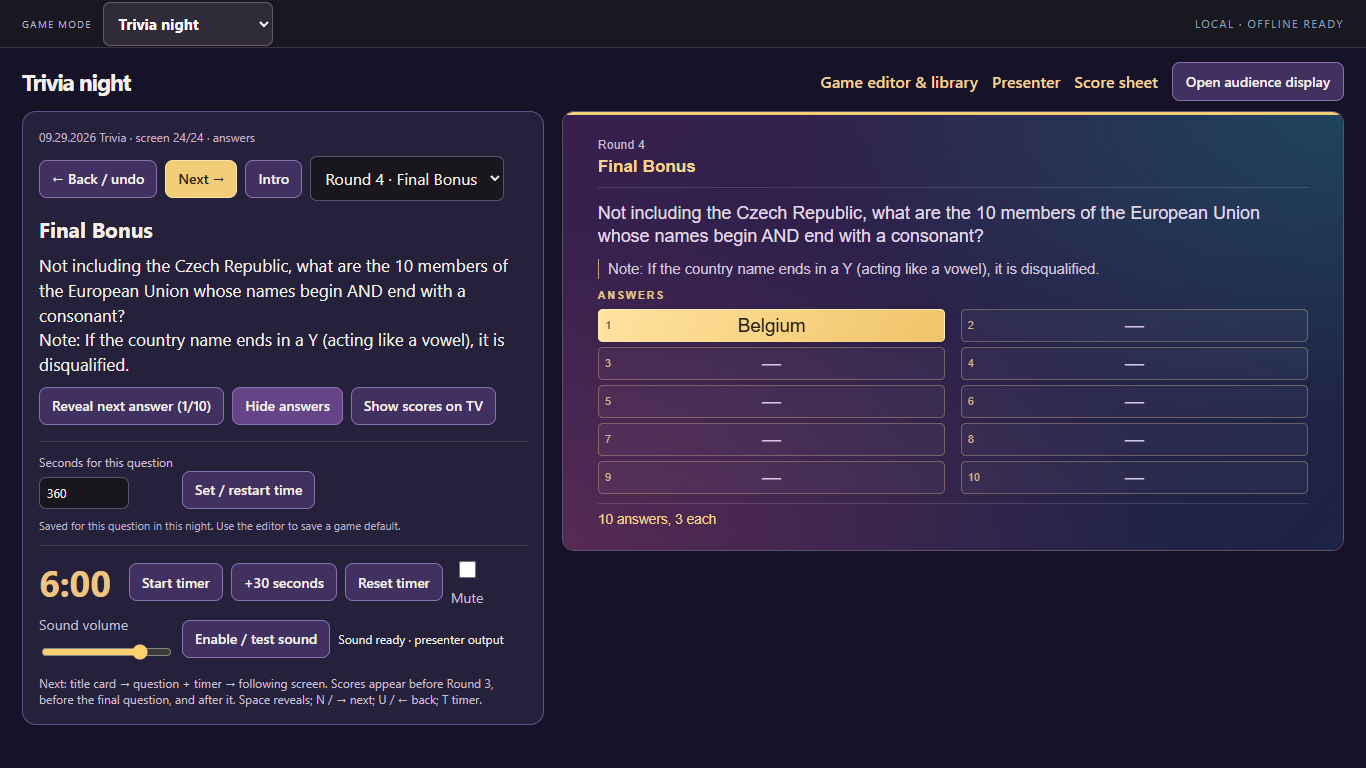
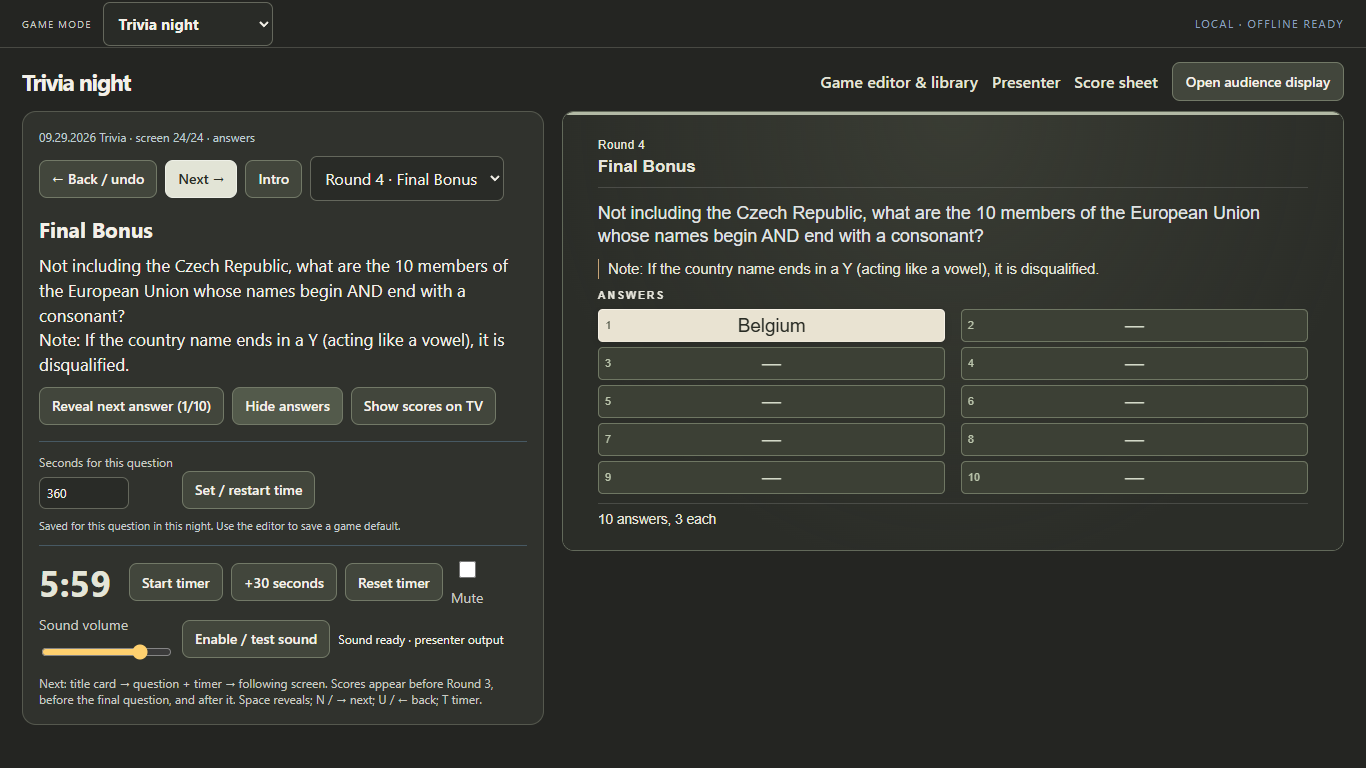
Soften trivia palette, remove intro tagline and speed answer flips

diff --git a/src/trivia/dark.css b/src/trivia/dark.css
@@ -1,95 +1,95 @@
-/* Warm charcoal, plum and amber distinguish trivia from the Feud board. */
-.app-nav.trivia-nav{background:#19171f;border-color:#393341;color:#f7f2e9}
-.mode-switch{display:flex;align-items:center;gap:12px;color:#bdb4ca;font-size:10px;letter-spacing:.12em;white-space:nowrap}
-.mode-switch select{width:170px;margin:0;background:#302b39;border:1px solid #655874;color:#fff;font-size:15px;font-weight:700;letter-spacing:0}
-.trivia-app{background:#17151c;color:#f4f0e9;padding:14px 22px}
-.trivia-app .panel{background:#24202b;border:1px solid #443a50;border-radius:14px}
-.trivia-app input,.trivia-app textarea,.trivia-app select{background:#19161e;color:#f6f1e9;border-color:#5e506d}
-.trivia-app button,.trivia-app .file-button{background:#342c3e;color:#f6f1e9;border-color:#62526e}
-.trivia-app button:hover{background:#4d3c59}.trivia-app .primary{background:#edc581;color:#241c15;border-color:#edc581}
-.trivia-app label,.trivia-app .subtle,.trivia-app .micro{color:#c8becf}.trivia-toolbar a{color:#e5cba3}.trivia-message{background:#392e44}
-.trivia-app .score-table th,.trivia-app .score-table td{background:#24202b;color:#f4f0e9;border-color:#493f53}
-.trivia-app .score-table .subtotal{background:#3c3046}.trivia-app .trivia-library-item{border-color:#493f53}
-.trivia-screen-list .selected{background:#51405d;border-color:#edc581}.trivia-toolbar h1{font-size:23px}
+/* Soft navy, cream and muted gold keep trivia readable in dark mode. */
+.app-nav.trivia-nav{background:#182129;border-color:#394750;color:#f7f2e9}
+.mode-switch{display:flex;align-items:center;gap:12px;color:#bcc6ca;font-size:10px;letter-spacing:.12em;white-space:nowrap}
+.mode-switch select{width:170px;margin:0;background:#2b3942;border:1px solid #5c6b74;color:#fff;font-size:15px;font-weight:700;letter-spacing:0}
+.trivia-app{background:#172128;color:#f4f0e9;padding:14px 22px}
+.trivia-app .panel{background:#24313a;border:1px solid #44535c;border-radius:14px}
+.trivia-app input,.trivia-app textarea,.trivia-app select{background:#19252d;color:#f6f1e9;border-color:#5d6d76}
+.trivia-app button,.trivia-app .file-button{background:#34464f;color:#f6f1e9;border-color:#627781}
+.trivia-app button:hover{background:#465f69}.trivia-app .primary{background:#edc581;color:#241c15;border-color:#edc581}
+.trivia-app label,.trivia-app .subtle,.trivia-app .micro{color:#c7cdd0}.trivia-toolbar a{color:#e5cba3}.trivia-message{background:#31434c}
+.trivia-app .score-table th,.trivia-app .score-table td{background:#24313a;color:#f4f0e9;border-color:#475963}
+.trivia-app .score-table .subtotal{background:#354954}.trivia-app .trivia-library-item{border-color:#475963}
+.trivia-screen-list .selected{background:#44616c;border-color:#edc581}.trivia-toolbar h1{font-size:23px}
 .trivia-host{grid-template-columns:minmax(0,1.15fr) minmax(0,1fr);gap:18px}.trivia-host>.panel{margin:10px 0}
-.trivia-controls{padding:16px}.trivia-controls>p:first-child{font-size:12px;color:#c3b1cc;margin:0 0 10px}
+.trivia-controls{padding:16px}.trivia-controls>p:first-child{font-size:12px;color:#bfcbcf;margin:0 0 10px}
 .trivia-host-prompt{font-size:17px;line-height:1.45;max-height:150px;margin:10px 0}
 .trivia-controls h2{font-size:21px;margin:14px 0 8px}.trivia-controls button{padding:8px 12px}
-.trivia-timer-controls{margin:12px 0;padding-top:12px;border-top:1px solid #493f53}.trivia-timer-controls>b{color:#edc581}
-.trivia-timer-controls input[type=range]{max-width:140px}.trivia-answer-key{border-color:#493f53}
+.trivia-timer-controls{margin:12px 0;padding-top:12px;border-top:1px solid #475963}.trivia-timer-controls>b{color:#edc581}
+.trivia-timer-controls input[type=range]{max-width:140px}.trivia-answer-key{border-color:#475963}
 .trivia-answer-key ol{columns:auto;display:grid;grid-template-columns:1fr 1fr;gap:6px;list-style:none;padding:0;max-height:220px}
 .trivia-answer-key li button{display:flex;align-items:center;gap:10px;text-align:left;width:100%;height:100%;font-size:13px}
 .trivia-answer-key button[aria-pressed=true]{background:#4e4938;border-color:#edc581}.trivia-answer-key button>span:first-child{color:#edc581}
 .trivia-answer-key pre{margin:5px 0}.trivia-answer-key h3{margin:5px 0}.trivia-controls>.subtle{font-size:12px;line-height:1.4}
-.trivia-host-side{min-width:0}.trivia-host-side .trivia-preview{position:static}.trivia-host-side .trivia-answer-key{padding:12px 16px;background:#24202b;border:1px solid #443a50;border-radius:12px}.trivia-host-side .trivia-answer-key ol{max-height:175px}.trivia-host-side .trivia-answer-key button{padding:7px 10px;min-height:32px}.trivia-host-side .trivia-answer-key pre{max-height:40px}
+.trivia-host-side{min-width:0}.trivia-host-side .trivia-preview{position:static}.trivia-host-side .trivia-answer-key{padding:12px 16px;background:#24313a;border:1px solid #44535c;border-radius:12px}.trivia-host-side .trivia-answer-key ol{max-height:175px}.trivia-host-side .trivia-answer-key button{padding:7px 10px;min-height:32px}.trivia-host-side .trivia-answer-key pre{max-height:40px}
 .trivia-host-side .trivia-preview{max-width:540px;margin-left:auto;margin-right:auto}.trivia-host-side .trivia-answer-key ol{max-height:220px}
 .trivia-host-side .trivia-preview{max-width:none}
 .trivia-host{grid-template-columns:minmax(0,.9fr) minmax(0,1.35fr)}
-.trivia-question-timing{display:flex;align-items:end;gap:9px;flex-wrap:wrap;margin-top:16px;padding-top:12px;border-top:1px solid #493f53}
-.trivia-question-timing label{font-size:12px}.trivia-question-timing input{width:90px;padding:7px}.trivia-question-timing small{width:100%;color:#bdb1c8;font-size:11px}
+.trivia-question-timing{display:flex;align-items:end;gap:9px;flex-wrap:wrap;margin-top:16px;padding-top:12px;border-top:1px solid #475963}
+.trivia-question-timing label{font-size:12px}.trivia-question-timing input{width:90px;padding:7px}.trivia-question-timing small{width:100%;color:#c5cdd0;font-size:11px}
 .trivia-brand{position:static;width:30cqw;height:10cqw;background:transparent;border-radius:0;overflow:visible;flex-shrink:0;margin-bottom:1cqw}
 .trivia-brand img{position:static;width:100%;height:100%;object-fit:contain}
 .trivia-slide .trivia-centered:has(.trivia-brand){gap:1cqw}
 .trivia-slide .trivia-centered:has(.trivia-brand) h1{font-size:9cqw;margin:0}
 .trivia-slide .trivia-centered:has(.trivia-brand) h2{font-size:2.5cqw}
-.trivia-slide .trivia-centered>.trivia-host-credit{font-size:1.35cqw;letter-spacing:.04em;color:#c2b8cb;margin-top:1.4cqw}
+.trivia-slide .trivia-centered>.trivia-host-credit{font-size:1.35cqw;letter-spacing:.04em;color:#c3cccf;margin-top:1.4cqw}
 .trivia-slide .answer-shown{background:#bdb1d00b;color:#f4edf9;border-color:#c9b7dd48}
 .trivia-slide .paired-answer{color:#e7dcee}
 .trivia-slide .trivia-answer-list[data-count="1"] li{background:transparent;border-bottom:0;padding:1cqw 0}
 @media(max-width:1000px){.trivia-host{grid-template-columns:1fr}}
-.trivia-preview{position:sticky;top:12px;margin-top:10px;border:1px solid #5e506d;border-radius:12px;overflow:hidden}
-.trivia-display{background:#100e14}.trivia-slide{background:#211b29;color:#faf5ec}
+.trivia-preview{position:sticky;top:12px;margin-top:10px;border:1px solid #5d6d76;border-radius:12px;overflow:hidden}
+.trivia-display{background:#100e14}.trivia-slide{background:#263842;color:#faf5ec}
 .trivia-slide .trivia-stage{background:radial-gradient(ellipse at 95% 0,#47304b 0,transparent 55%),linear-gradient(135deg,#211c29,#17151e);color:#faf5ec;padding:3cqw 4.5cqw;gap:1.8cqw;border-top:.45cqw solid #dab77f}
-.trivia-slide .trivia-stage header{color:#c9bbd2;font-size:1.6cqw;border-color:#ffffff24;padding-bottom:1.3cqw;flex-shrink:0}
+.trivia-slide .trivia-stage header{color:#c5cfd2;font-size:1.6cqw;border-color:#ffffff24;padding-bottom:1.3cqw;flex-shrink:0}
 .trivia-stage header>span{display:flex;flex-direction:column;gap:.4cqw}.trivia-stage header strong{color:#edc581;font-size:2.2cqw}
 .trivia-slide .trivia-stage header>b{font-size:5cqw;color:#faf5ec}.trivia-slide .trivia-stage header .time-up{color:#f5b097}
 .trivia-question-body{display:flex;flex:1;min-height:0;flex-direction:column;justify-content:center;gap:2.2cqw}
 .trivia-slide .trivia-question-text{font-size:3.7cqw;line-height:1.27;font-weight:600;white-space:pre-line;margin:0;max-width:88cqw;overflow-wrap:anywhere}
 .trivia-question-body[data-length=medium] .trivia-question-text{font-size:3.35cqw}.trivia-question-body[data-length=long] .trivia-question-text{font-size:2.9cqw}
-.trivia-slide .trivia-question-note{font-size:1.9cqw;line-height:1.4;color:#d4c7dd;max-width:82cqw;border-left:.22cqw solid #c6a376;padding-left:1.2cqw}
+.trivia-slide .trivia-question-note{font-size:1.9cqw;line-height:1.4;color:#d6dddd;max-width:82cqw;border-left:.22cqw solid #c6a376;padding-left:1.2cqw}
 .trivia-prompt-items{display:grid;grid-template-columns:1fr 1fr;gap:1.3cqw 3cqw;list-style:none;padding:0;margin:0}
 .trivia-prompt-items li{display:flex;align-items:baseline;gap:1.3cqw;font-size:2.8cqw;line-height:1.25;border-top:1px solid #ffffff25;padding-top:1.1cqw}
 .item-number{font-size:1.4cqw;color:#d8b580;flex-shrink:0;font-variant-numeric:tabular-nums}
 .trivia-slide .trivia-stage footer{position:static;max-width:100%;font-size:1.75cqw;color:#d8b580;border-top:1px solid #ffffff24;padding-top:1cqw;flex-shrink:0}
 .trivia-slide .trivia-centered h1{color:#faf5ec;font-size:8cqw}.trivia-slide .trivia-centered>p{color:#edc581;font-size:1.8cqw;letter-spacing:.15em}
-.trivia-centered h2{font-weight:400;color:#d7c9de}.trivia-round-categories{font-size:3cqw;line-height:1.65;color:#d7c9de}
+.trivia-centered h2{font-weight:400;color:#d8dddd}.trivia-round-categories{font-size:3cqw;line-height:1.65;color:#d8dddd}
 .trivia-brand{width:18cqw;height:5.2cqw;bottom:2cqw;right:3cqw;border-radius:.5cqw}
-.trivia-slide .trivia-answers .trivia-question-text{font-size:2.3cqw;line-height:1.3;color:#e2d9e7;font-weight:400}
+.trivia-slide .trivia-answers .trivia-question-text{font-size:2.3cqw;line-height:1.3;color:#e0e4e4;font-weight:400}
 .trivia-answers .trivia-question-body{justify-content:flex-start;gap:1.3cqw}
 .trivia-answer-board{flex:1;display:flex;flex-direction:column;gap:1cqw;min-height:0}
 .trivia-slide .answer-label{font-size:1.1cqw;letter-spacing:.12em;color:#edc581}
 .trivia-slide .trivia-answer-list{list-style:none;padding:0;margin:0;display:grid;grid-template-columns:1fr 1fr;font-size:2.7cqw;line-height:1.15;gap:1cqw 2cqw;align-content:center}
 .trivia-slide .trivia-answer-list li{display:flex;align-items:center;gap:1.2cqw;border-bottom:1px solid #ffffff26;padding:.6cqw .8cqw;min-height:3.2cqw}
 .trivia-slide .trivia-answer-list[data-count="1"]{grid-template-columns:1fr;font-size:4.5cqw;text-align:left}
-.trivia-slide .trivia-answer-list[data-count="1"] li{padding:2cqw}.answer-shown{background:#edc58112;color:#ffdfa5;animation:trivia-reveal .22s ease-out}.answer-hidden{color:#a899b1}
+.trivia-slide .trivia-answer-list[data-count="1"] li{padding:2cqw}.answer-shown{background:#edc58112;color:#eddbb5;animation:trivia-reveal .22s ease-out}.answer-hidden{color:#a899b1}
 .trivia-slide .trivia-answer-list[data-count="10"],.trivia-slide .trivia-answer-list[data-count="9"],.trivia-slide .trivia-answer-list[data-count="8"],.trivia-slide .trivia-answer-list[data-count="7"],.trivia-slide .trivia-answer-list[data-count="6"]{font-size:2.4cqw;gap:.65cqw 2cqw}
-.paired-answer{font-size:2.3cqw;color:#ffdfa5;margin-top:.5cqw;min-height:2.8cqw}
+.paired-answer{font-size:2.3cqw;color:#eddbb5;margin-top:.5cqw;min-height:2.8cqw}
 .trivia-slide .has-prompts .trivia-question-text{font-size:2.9cqw;line-height:1.25}.has-prompts .trivia-question-body{justify-content:flex-start;gap:1.6cqw}.has-prompts .trivia-prompt-items li{font-size:2.35cqw;line-height:1.22;padding-top:.8cqw}.has-prompts .trivia-prompt-items{gap:1cqw 3cqw}.trivia-answers.has-prompts .trivia-question-text{font-size:2.2cqw}.trivia-answers .trivia-prompt-items li{font-size:1.9cqw}.trivia-answers .paired-answer{font-size:2.15cqw}
-.trivia-slide .trivia-ranks>div{background:#ffffff07;color:#faf5ec;border-color:#ffffff15;font-size:2.5cqw}.trivia-slide .trivia-ranks .shown{background:#8b6c3d35;color:#ffdfa5}
+.trivia-slide .trivia-ranks>div{background:#ffffff07;color:#faf5ec;border-color:#ffffff15;font-size:2.5cqw}.trivia-slide .trivia-ranks .shown{background:#8b6c3d35;color:#eddbb5}
 .trivia-slide .trivia-stage:has(.trivia-ranks){padding-bottom:3cqw}
 @keyframes trivia-reveal{from{opacity:.3;transform:translateY(3px)}to{opacity:1;transform:none}}
 @media(prefers-reduced-motion:reduce){.answer-shown{animation:none}}
-.trivia-score-layout{display:grid;grid-template-columns:minmax(0,1fr) 310px;gap:20px;align-items:start}.trivia-grading-card{background:#19161f;border:1px solid #5c4a69;border-radius:12px;padding:18px;position:sticky;top:12px}.trivia-grading-card>p{white-space:pre-line;line-height:1.5}.trivia-grading-card li{margin:9px 0;color:#ffdfa5}.trivia-screen-list>button[draggable]{cursor:grab}.trivia-screen-list>button[draggable]:active{cursor:grabbing}
+.trivia-score-layout{display:grid;grid-template-columns:minmax(0,1fr) 310px;gap:20px;align-items:start}.trivia-grading-card{background:#1e2b34;border:1px solid #596c77;border-radius:12px;padding:18px;position:sticky;top:12px}.trivia-grading-card>p{white-space:pre-line;line-height:1.5}.trivia-grading-card li{margin:9px 0;color:#eddbb5}.trivia-screen-list>button[draggable]{cursor:grab}.trivia-screen-list>button[draggable]:active{cursor:grabbing}
 @media(max-width:900px){.trivia-score-layout{grid-template-columns:1fr}.trivia-grading-card{position:static}}
 @media(max-width:1000px){.trivia-host{grid-template-columns:1fr}.trivia-preview{position:static}.trivia-app{padding:12px}}
 .trivia-slide .trivia-brand{position:static;width:30cqw;height:10cqw;background:transparent;overflow:visible;border-radius:0}
-.trivia-slide .trivia-ranks .shown{background:#ffffff08;color:#f5f1f7;border-left:.35cqw solid #71657d}
+.trivia-slide .trivia-ranks .shown{background:#ffffff08;color:#f5f1f7;border-left:.35cqw solid #788c96}
 .trivia-slide .trivia-ranks .medal-1{border-left-color:#b9a173;background:#b9a1730d}
 .trivia-slide .trivia-ranks .medal-2{border-left-color:#adb7c4;background:#adb7c40c}
 .trivia-slide .trivia-ranks .medal-3{border-left-color:#b38b73;background:#b38b730c}
 .trivia-slide .trivia-ranks .medal-1>b:first-child{color:#d1bd97}.trivia-slide .trivia-ranks .medal-2>b:first-child{color:#c4cedb}.trivia-slide .trivia-ranks .medal-3>b:first-child{color:#d0aa91}
-.trivia-full-scorebook{padding:16px!important}.trivia-full-scorebook>p{font-size:13px;color:#c7bdd0;margin:8px 0 14px}
+.trivia-full-scorebook{padding:16px!important}.trivia-full-scorebook>p{font-size:13px;color:#c9ced0;margin:8px 0 14px}
 .trivia-all-scores{table-layout:fixed;width:100%;font-variant-numeric:tabular-nums}
 .trivia-app .trivia-all-scores th,.trivia-app .trivia-all-scores td{padding:6px 2px;font-size:12px;letter-spacing:0;border-right:1px solid #ffffff0c}
 .trivia-app .trivia-all-scores tr th:first-child{min-width:0;width:auto}
 .trivia-app .trivia-all-scores thead tr:nth-child(2) th:first-child{position:static;text-align:center}
 .trivia-app .trivia-all-scores input{min-width:0!important;width:100%!important;padding:7px 2px;font-size:13px;text-align:center}
 .trivia-app .trivia-all-scores th input{text-align:left;font-size:12px}
-.trivia-app .trivia-all-scores .subtotal{min-width:0;background:#39313f;color:#f3eafa;border-left:1px solid #776383;border-right:1px solid #574660;font-size:12px}
-.trivia-app .trivia-all-scores .subtotal-total{font-weight:800;background:#50415d}
-.trivia-app .trivia-all-scores .round-headings th{background:#302637;border-bottom:1px solid #8e739e;text-align:center;font-size:13px;padding:10px 2px}
+.trivia-app .trivia-all-scores .subtotal{min-width:0;background:#344750;color:#f3f0e8;border-left:1px solid #75858b;border-right:1px solid #526771;font-size:12px}
+.trivia-app .trivia-all-scores .subtotal-total{font-weight:800;background:#47606b}
+.trivia-app .trivia-all-scores .round-headings th{background:#2a3b45;border-bottom:1px solid #85999f;text-align:center;font-size:13px;padding:10px 2px}
 .trivia-app .trivia-all-scores th button{min-height:30px;width:100%;padding:3px 0;border:0;border-radius:4px;background:transparent;font-size:11px;white-space:normal}
-.trivia-app .trivia-all-scores th .active-question{background:#574063;color:#fff}
+.trivia-app .trivia-all-scores th .active-question{background:#4b6874;color:#fff}
 .trivia-app .trivia-all-scores thead th{white-space:normal}
 .trivia-score-answer{display:grid;grid-template-columns:260px 1fr;gap:20px;align-items:start}
 .trivia-score-answer .trivia-grading-card{position:static;padding:16px}
@@ -98,7 +98,7 @@
 @media(max-width:800px){.trivia-score-answer{grid-template-columns:1fr}}
 
 .trivia-slide .is-concealed{visibility:hidden}
-.trivia-slide .answer-shown,.trivia-slide .trivia-answer-list[data-count="1"] .answer-shown,.trivia-slide .paired-answer.is-visible{background:#f0ce83;color:#251e17;border-radius:.6cqw;border:1px solid #ffe6aa}
+.trivia-slide .answer-shown,.trivia-slide .trivia-answer-list[data-count="1"] .answer-shown,.trivia-slide .paired-answer.is-visible{background:#e5cf9e;color:#251e17;border-radius:.6cqw;border:1px solid #ffe6aa}
 .trivia-slide .answer-shown .item-number{color:#66502b}
 .trivia-slide .trivia-answer-list[data-count="1"]{font-size:5.2cqw;align-content:start}
 .trivia-slide .trivia-answer-list[data-count="1"] li{padding:2cqw;min-height:8cqw}
@@ -106,35 +106,35 @@
 .trivia-slide .paired-answer .answer-label{display:block;font-size:1cqw;color:#66502b;margin-bottom:.25cqw}
 .trivia-slide .answer-label{font-size:1.45cqw;font-weight:700;text-transform:uppercase}
 .trivia-stage header>b{position:relative}
-.trivia-extension{position:absolute;right:0;top:100%;font-size:1.7cqw;line-height:1.2;color:#f0ce83;white-space:nowrap}
-.trivia-slide .trivia-ranks .medal-1{background:#79602e;border-left:.8cqw solid #f0ce83;color:#fff7e6}
+.trivia-extension{position:absolute;right:0;top:100%;font-size:1.7cqw;line-height:1.2;color:#e5cf9e;white-space:nowrap}
+.trivia-slide .trivia-ranks .medal-1{background:#79602e;border-left:.8cqw solid #e5cf9e;color:#fff7e6}
 .trivia-slide .trivia-ranks .medal-2{background:#4d5c70;border-left:.8cqw solid #d8e3f1;color:#fff}
 .trivia-slide .trivia-ranks .medal-3{background:#794e39;border-left:.8cqw solid #e9ae84;color:#fff4eb}
 .trivia-slide .trivia-ranks .shown>b:first-child{color:inherit}
 
-.trivia-time-notice{position:absolute;z-index:4;top:12cqw;left:50%;transform:translateX(-50%);padding:1.2cqw 2.5cqw;background:#f0ce83;color:#251e17;border:2px solid #ffe6aa;border-radius:1cqw;font-size:3cqw;font-weight:700;box-shadow:0 1cqw 3cqw #0006;white-space:nowrap}
-.trivia-countdown{position:absolute;z-index:4;right:3cqw;bottom:5cqw;width:15cqw;min-height:15cqw;display:flex;flex-direction:column;align-items:center;justify-content:center;border:.25cqw solid #f0ce83;border-radius:1.3cqw;background:#201928f5;color:#ffdfa5;box-shadow:0 1cqw 4cqw #0008;pointer-events:none}
+.trivia-time-notice{position:absolute;z-index:4;top:12cqw;left:50%;transform:translateX(-50%);padding:1.2cqw 2.5cqw;background:#e5cf9e;color:#251e17;border:2px solid #ffe6aa;border-radius:1cqw;font-size:3cqw;font-weight:700;box-shadow:0 1cqw 3cqw #0006;white-space:nowrap}
+.trivia-countdown{position:absolute;z-index:4;right:3cqw;bottom:5cqw;width:15cqw;min-height:15cqw;display:flex;flex-direction:column;align-items:center;justify-content:center;border:.25cqw solid #e5cf9e;border-radius:1.3cqw;background:#1e2e38f5;color:#eddbb5;box-shadow:0 1cqw 4cqw #0008;pointer-events:none}
 .trivia-countdown b{font-size:10cqw;line-height:1.05;font-variant-numeric:tabular-nums}.trivia-countdown span{font-size:1.2cqw;letter-spacing:.08em}
 
 .trivia-question-text{transform-origin:left top}
 .trivia-answer-board,.trivia-answers .paired-answer{animation:trivia-board-in .45s cubic-bezier(.2,.7,.2,1) both}
-.trivia-slide .trivia-answer-list .answer-hidden{background:#ffffff09;border:1px solid #c3a67970;border-radius:.6cqw;min-height:3.2cqw;color:#d5c4df}
+.trivia-slide .trivia-answer-list .answer-hidden{background:#ffffff09;border:1px solid #c3a67970;border-radius:.6cqw;min-height:3.2cqw;color:#d4dadb}
 .trivia-slide .trivia-answer-list[data-count="1"] .answer-hidden{min-height:8cqw}
 .trivia-slide .paired-answer.is-concealed{visibility:visible;background:#ffffff09;border:1px solid #c3a67970;border-radius:.6cqw}
 @keyframes trivia-board-in{from{opacity:0;transform:translateY(1.5cqw)}to{opacity:1;transform:none}}
 @media(prefers-reduced-motion:reduce){.trivia-answer-board,.trivia-answers .paired-answer{animation:none}}
 
 /* A brighter evening palette, with calm dark surfaces behind large type. */
-.trivia-display,.trivia-app{background:#161329}
-.trivia-app .panel{background:#25213b;border-color:#625184}
-.trivia-app button,.trivia-app .file-button{background:#403161;border-color:#8b70ae}
-.trivia-app button:hover{background:#654587}.trivia-app .primary{background:#f2cd78;color:#2b2015;border-color:#ffe5a7}
-.trivia-app .trivia-toolbar a{color:#f3d396}
-.trivia-slide .trivia-stage{background:radial-gradient(ellipse at 100% 0,#176e7770 0,transparent 50%),radial-gradient(ellipse at 0 100%,#94386166 0,transparent 55%),linear-gradient(135deg,#38204e,#1b2346);border-top:.45cqw solid #f2cd78}
-.trivia-slide .trivia-stage header strong,.trivia-slide .trivia-stage footer{color:#f6d48b}
-.trivia-slide .trivia-centered h1{text-shadow:0 .2cqw 2cqw #bc6bea40}
-.trivia-slide .trivia-prompt-items li{border-top-color:#75d4d066}
-.trivia-slide .answer-shown,.trivia-slide .trivia-answer-list[data-count="1"] .answer-shown,.trivia-slide .paired-answer.is-visible{background:linear-gradient(120deg,#ffe3a0,#f0c468);border-color:#ffecbd;box-shadow:0 .3cqw 1.2cqw #100a2340}
+.trivia-display,.trivia-app{background:#162229}
+.trivia-app .panel{background:#25343d;border-color:#566b76}
+.trivia-app button,.trivia-app .file-button{background:#344e5b;border-color:#708b96}
+.trivia-app button:hover{background:#4c6875}.trivia-app .primary{background:#dcc18c;color:#2b2015;border-color:#ffe5a7}
+.trivia-app .trivia-toolbar a{color:#e9d6ad}
+.trivia-slide .trivia-stage{background:radial-gradient(ellipse at 100% 0,#819c9b24 0,transparent 50%),radial-gradient(ellipse at 0 100%,#bfa77712 0,transparent 55%),linear-gradient(135deg,#273c48,#1d2d37);border-top:.45cqw solid #dcc18c}
+.trivia-slide .trivia-stage header strong,.trivia-slide .trivia-stage footer{color:#e9d3a8}
+.trivia-slide .trivia-centered h1{text-shadow:0 .2cqw 2cqw #d1bd9220}
+.trivia-slide .trivia-prompt-items li{border-top-color:#9bb5b144}
+.trivia-slide .answer-shown,.trivia-slide .trivia-answer-list[data-count="1"] .answer-shown,.trivia-slide .paired-answer.is-visible{background:linear-gradient(120deg,#f2dfb6,#e5cb94);border-color:#ffecbd;box-shadow:0 .3cqw 1.2cqw #100a2340}
 .trivia-slide .trivia-ranks .shown{background:#24565f;border-left-color:#77dad3}
 .trivia-slide .trivia-ranks .medal-1{background:linear-gradient(110deg,#9b702e,#654322);border-left-color:#ffdc81}
 .trivia-slide .trivia-ranks .medal-2{background:linear-gradient(110deg,#637b94,#384960);border-left-color:#e0edff}
@@ -142,21 +142,21 @@
 .trivia-slide .trivia-stage.trivia-answers header{min-height:5cqw}
 
 .trivia-answer-list{perspective:120cqw}
-.trivia-slide .answer-shown,.trivia-slide .paired-answer.is-visible{animation:trivia-answer-flip .5s ease-in-out both;transform-origin:center;backface-visibility:hidden}
-@keyframes trivia-answer-flip{0%{transform:rotateX(0deg);color:transparent;background:#382e4b}49%{transform:rotateX(90deg);color:transparent;background:#382e4b}50%{transform:rotateX(-90deg);color:#251e17}100%{transform:rotateX(0deg)}}
-.trivia-slide .answer-shown>span,.trivia-slide .paired-answer.is-visible>.answer-label{animation:trivia-answer-ink .5s step-end both}
+.trivia-slide .answer-shown,.trivia-slide .paired-answer.is-visible{animation:trivia-answer-flip .24s ease-in-out both;transform-origin:center;backface-visibility:hidden}
+@keyframes trivia-answer-flip{0%{transform:rotateX(0deg);color:transparent;background:#34454f}49%{transform:rotateX(90deg);color:transparent;background:#34454f}50%{transform:rotateX(-90deg);color:#251e17}100%{transform:rotateX(0deg)}}
+.trivia-slide .answer-shown>span,.trivia-slide .paired-answer.is-visible>.answer-label{animation:trivia-answer-ink .24s step-end both}
 @keyframes trivia-answer-ink{0%{opacity:0}50%,100%{opacity:1}}
 @media(prefers-reduced-motion:reduce){.trivia-slide .answer-shown,.trivia-slide .paired-answer.is-visible,.trivia-slide .answer-shown>span,.trivia-slide .paired-answer.is-visible>.answer-label{animation:none}}
 
-.trivia-slide .trivia-intro{position:relative;justify-content:center;align-items:flex-start;padding:6cqw 7cqw;gap:1.5cqw;background:radial-gradient(ellipse at 92% 58%,#18857a88,transparent 48%),radial-gradient(ellipse at 0 100%,#b83c7470,transparent 55%),linear-gradient(120deg,#352054,#182344)}
+.trivia-slide .trivia-intro{position:relative;justify-content:center;align-items:flex-start;padding:6cqw 7cqw;gap:1.5cqw;background:radial-gradient(ellipse at 92% 58%,#8ea6a333,transparent 48%),radial-gradient(ellipse at 0 100%,#c1a67418,transparent 55%),linear-gradient(120deg,#2b414d,#1b2c35)}
 .trivia-slide .trivia-intro .trivia-brand{position:absolute;top:4cqw;right:5cqw;width:25cqw;height:8cqw;margin:0}
 .trivia-intro .intro-eyebrow{font-size:1.8cqw;letter-spacing:.1em;color:#8ce3d6;position:relative;z-index:1}
 .trivia-slide .trivia-intro h1{font-size:11cqw;line-height:.92;margin:1.5cqw 0 2.5cqw;letter-spacing:-.035em;position:relative;z-index:1}
-.trivia-intro h1 span{display:block}.trivia-intro h1 span:first-child{color:#fff5e7}.trivia-intro h1 span:last-child{color:#ffd479;font-style:italic;padding-left:6cqw}
-.trivia-intro .intro-details{width:100%;display:flex;align-items:end;justify-content:space-between;border-top:.15cqw solid #f2cd7866;padding-top:2cqw;position:relative;z-index:1;gap:3cqw}
-.trivia-slide .trivia-intro h2{font-size:2cqw;color:#f0dbbd;font-weight:400}.trivia-intro .trivia-host-credit{font-size:1.4cqw;color:#d6cbe5}.trivia-intro .trivia-host-credit strong{display:block;font-size:1.8cqw;color:#a6e9de;margin-top:.4cqw}
-.intro-orbit{position:absolute;right:8cqw;top:17cqw;width:22cqw;height:22cqw;border:1.2cqw solid #77d6cc77;border-radius:50%;box-shadow:0 0 0 3cqw #77d6cc10,0 0 0 6cqw #77d6cc08;transform:rotate(-15deg)}
-.intro-orbit:before{content:'?';position:absolute;inset:0;display:grid;place-items:center;font-size:17cqw;font-weight:700;color:#f2cd78}
+.trivia-intro h1 span{display:block}.trivia-intro h1 span:first-child{color:#fff5e7}.trivia-intro h1 span:last-child{color:#e9cb8e;font-style:italic;padding-left:6cqw}
+.trivia-intro .intro-details{width:100%;display:flex;align-items:end;justify-content:space-between;border-top:.15cqw solid #dcc18c66;padding-top:2cqw;position:relative;z-index:1;gap:3cqw}
+.trivia-slide .trivia-intro h2{font-size:2cqw;color:#e8dfca;font-weight:400}.trivia-intro .trivia-host-credit{font-size:1.4cqw;color:#d5dadd}.trivia-intro .trivia-host-credit strong{display:block;font-size:1.8cqw;color:#c4d9d9;margin-top:.4cqw}
+.intro-orbit{position:absolute;right:8cqw;top:17cqw;width:22cqw;height:22cqw;border:1.2cqw solid #91aaa877;border-radius:50%;box-shadow:0 0 0 3cqw #91aaa810,0 0 0 6cqw #91aaa808;transform:rotate(-15deg)}
+.intro-orbit:before{content:'?';position:absolute;inset:0;display:grid;place-items:center;font-size:17cqw;font-weight:700;color:#dcc18c}
 
 .trivia-slide .trivia-intro{align-items:center;text-align:center;justify-content:flex-start;padding:3.5cqw 6cqw;gap:1.4cqw}
 .trivia-slide .trivia-intro .trivia-brand{position:relative;top:auto;right:auto;width:44cqw;height:14cqw;margin:0 0 1cqw}
@@ -171,3 +171,31 @@
 .trivia-slide .trivia-answer-list li>span:last-child{padding:0 1.2cqw}
 .trivia-slide .trivia-answer-list[data-count="1"]{text-align:center}
 .trivia-slide .paired-answer{text-align:center}
+
+.trivia-slide .trivia-intro .trivia-brand{margin-bottom:3cqw}.trivia-slide .trivia-brand img{filter:grayscale(1)}
+
+/* Warm neutral theme: charcoal, ivory and understated accents. */
+.app-nav.trivia-nav,.trivia-display,.trivia-app{background:#242522;color:#f3f0e8;border-color:#484943}
+.trivia-nav .mode-switch,.trivia-app label,.trivia-app .subtle,.trivia-app .micro{color:#c9cac2}
+.trivia-nav .mode-switch select,.trivia-app input,.trivia-app textarea,.trivia-app select{background:#292b27;color:#f3f0e8;border-color:#64675c}
+.trivia-app .panel,.trivia-app .trivia-grading-card{background:#30322d;border-color:#55584e}
+.trivia-app button,.trivia-app .file-button{background:#42463c;border-color:#727967;color:#f4f1e9}
+.trivia-app button:hover{background:#535a4b}.trivia-app .primary{background:#e2e4d6;border-color:#eef0e7;color:#292d25}
+.trivia-app .trivia-toolbar a,.trivia-app .trivia-timer-controls>b,.trivia-app .trivia-grading-card li{color:#e4e5d8}
+.trivia-app .score-table th,.trivia-app .score-table td{background:#30332d;border-color:#55594e;color:#f1eee6}
+.trivia-app .trivia-all-scores .subtotal,.trivia-app .trivia-all-scores .round-headings th{background:#43483c;color:#f4f1e9;border-color:#737b64}
+.trivia-app .trivia-all-scores .subtotal-total,.trivia-app .trivia-all-scores th .active-question,.trivia-app .trivia-screen-list .selected{background:#58634c;color:#fff;border-color:#b0baa2}
+.trivia-app .trivia-preview{border-color:#62695a}.trivia-app .trivia-message{background:#414737}
+.trivia-slide,.trivia-slide .trivia-stage,.trivia-slide .trivia-intro{background:radial-gradient(ellipse at 50% 0,#55594a55,transparent 75%),#2b2d28;color:#f4f0e6;border-top-color:#b2b9a5}
+.trivia-slide .trivia-stage header,.trivia-slide .trivia-stage header strong,.trivia-slide .trivia-stage footer,.trivia-slide .answer-label,.trivia-slide .trivia-question-note,.trivia-slide .trivia-question-text,.trivia-slide .trivia-round-categories{color:#e6e5db}
+.trivia-slide .trivia-stage header>b,.trivia-slide .trivia-centered h1{color:#f6f3eb;text-shadow:none}
+.trivia-slide .trivia-intro h1 span:first-child{color:#f5f0e5}.trivia-slide .trivia-intro h1 span:last-child{color:#c4cbb6}
+.trivia-slide .trivia-intro h2,.trivia-intro .trivia-host-credit,.trivia-intro .trivia-host-credit strong{color:#d6d8cb}
+.trivia-intro .intro-details{border-color:#898f7955}.intro-orbit{border-color:#c5ccb366;box-shadow:0 0 0 3cqw #c5ccb310,0 0 0 6cqw #c5ccb308}.intro-orbit:before{color:#d9dccd}
+.trivia-slide .trivia-prompt-items li{border-top-color:#b2b9a544}.trivia-slide .item-number{color:#bbc5ac}
+.trivia-slide .answer-shown,.trivia-slide .trivia-answer-list[data-count="1"] .answer-shown,.trivia-slide .paired-answer.is-visible{background:#e9e3d2;border-color:#f6f1e6;color:#292c25;box-shadow:0 .3cqw 1.2cqw #0002}
+.trivia-slide .answer-shown .item-number,.trivia-slide .paired-answer .answer-label{color:#555b4b}
+.trivia-slide .trivia-answer-list .answer-hidden,.trivia-slide .paired-answer.is-concealed{background:#3c4035;border-color:#9ca78b88;color:#d3d9c8}
+.trivia-extension{color:#dfe5d2}.trivia-time-notice{background:#e3e6d7;color:#292e24;border-color:#f2f3e9}.trivia-countdown{background:#2a2e25f5;color:#edf0e3;border-color:#bec8ac}
+.trivia-slide .trivia-ranks .shown{background:#444e3a;border-left-color:#bbc9a7}
+@keyframes trivia-answer-flip{0%{transform:rotateX(0deg);color:transparent;background:#3c4035}49%{transform:rotateX(90deg);color:transparent;background:#3c4035}50%{transform:rotateX(-90deg);color:#292c25}100%{transform:rotateX(0deg)}}

diff --git a/src/trivia/TriviaApp.tsx b/src/trivia/TriviaApp.tsx
@@ -57,7 +57,7 @@ function TriviaDisplay(props:{deck:TriviaDeck;session:TriviaSession;now:number})
 }
 function RichText({text}:{text:string}){return <>{text.split(/(\*\*[^*]+\*\*)/g).map((part,i)=>part.startsWith('**')&&part.endsWith('**')?<strong key={i}>{part.slice(2,-2)}</strong>:part)}</>;}
 function formatTime(seconds:number){const n=Math.ceil(seconds);return `${Math.floor(n/60)}:${String(n%60).padStart(2,'0')}`;}
-function TriviaDisplayContent({deck,session:s,now}:{deck:TriviaDeck;session:TriviaSession;now:number}){const c=deck.cards[s.index];const left=triviaLeft(s,now);if(s.phase==='intro')return <section className="trivia-stage trivia-intro"><Brand/><div className="intro-orbit" aria-hidden="true"/><p className="intro-eyebrow">Good company. Great questions.</p><h1><span>Trivia</span> <span>night</span></h1><div className="intro-details"><h2>{s.title}</h2><p className="trivia-host-credit">With your host, <strong>Daniel Prins</strong></p></div></section>;if(s.phase==='scores'){const rows=s.standings??[];return <section className="trivia-stage"><p>{s.checkpoint==='halfway'?'HALFWAY':s.checkpoint==='final'?'FINAL':s.checkpoint==='beforeFinal'?'BEFORE THE FINAL':'CURRENT'} STANDINGS · TOP {rows.length}</p><div className="trivia-ranks">{rows.map((t,i)=><div key={t.id} className={i>=rows.length-s.standingsShown?`shown ${t.rank<=3?`medal-${t.rank}`:''}`:''}><b>#{t.rank}</b>{i>=rows.length-s.standingsShown?<><strong>{t.name}</strong><b>{t.total}</b></>:<span>•••</span>}</div>)}</div></section>;}
+function TriviaDisplayContent({deck,session:s,now}:{deck:TriviaDeck;session:TriviaSession;now:number}){const c=deck.cards[s.index];const left=triviaLeft(s,now);if(s.phase==='intro')return <section className="trivia-stage trivia-intro"><Brand/><div className="intro-orbit" aria-hidden="true"/><h1><span>Trivia</span> <span>night</span></h1><div className="intro-details"><h2>{s.title}</h2><p className="trivia-host-credit">With your host, <strong>Daniel Prins</strong></p></div></section>;if(s.phase==='scores'){const rows=s.standings??[];return <section className="trivia-stage"><p>{s.checkpoint==='halfway'?'HALFWAY':s.checkpoint==='final'?'FINAL':s.checkpoint==='beforeFinal'?'BEFORE THE FINAL':'CURRENT'} STANDINGS · TOP {rows.length}</p><div className="trivia-ranks">{rows.map((t,i)=><div key={t.id} className={i>=rows.length-s.standingsShown?`shown ${t.rank<=3?`medal-${t.rank}`:''}`:''}><b>#{t.rank}</b>{i>=rows.length-s.standingsShown?<><strong>{t.name}</strong><b>{t.total}</b></>:<span>•••</span>}</div>)}</div></section>;}
   if(s.phase==='card'&&c.kind==='round')return <section className="trivia-stage trivia-centered"><h1>{c.title}</h1><div className="trivia-round-categories">{c.prompt}</div></section>;
   if(s.phase==='card'&&c.kind==='question')return <section className="trivia-stage trivia-centered"><p>{c.round}</p><h1>{c.title}</h1></section>;
   const images=c.images.filter(i=>i.role==='question'||i.role==='answer'&&s.phase==='answers'&&s.revealed>0);

diff --git a/README.md b/README.md
@@ -141,11 +141,11 @@ Scoring: 2 points per correct answer
 
 Use **Prompt items / choices** for separate clues, and **Pair each prompt with its answer** for matching questions. In text imports, repeat `Prompt item:` and use `Answer layout: paired`. The larger presenter preview replaces individual answer buttons. **Reveal next answer** walks through hidden answers; **Hide answers** clears them and **Back / undo** reverses a reveal. Clues and their revealed answers stay on the same screen. Score sheet shows a private answer card for the selected question.
 
-The plum/teal display uses separate question and clue typography, centered gold answer cards and no audience answer counter. Single answers have no number. A transparent ivory/lavender Outspoken logo is integrated into the intro, with Trivia night as the largest text and the host credit small. Score reveals occur before Round 3, before the last question, and after the last question. Each stop reveals up to ten teams from bottom to top; Next continues the show.
+The charcoal/ivory display uses separate question and clue typography, centered ivory answer cards and no audience answer counter. Single answers have no number. A transparent ivory/lavender Outspoken logo is integrated into the intro, with Trivia night as the largest text and the host credit small. Score reveals occur before Round 3, before the last question, and after the last question. Each stop reveals up to ten teams from bottom to top; Next continues the show.
 
 Repeat Answer: for multiple answers, or use Answers: followed by a bullet list. Points are the maximum for the question; scoring instructions describe partial credit. Omitted points remain for the host to decide. Automatic timing uses 3 minutes for one answer, 4 for 2–4 answers, 5 for larger answer sets and 6 for a final question. Use **Seconds for this question → Set / restart time** in Presenter to save a per-question override for the current night. A running timer restarts with that full duration. Overrides survive reset, navigation and reload. The editor's time field saves game defaults, and its Automatic time checkbox restores adaptive timing. Explicit imported timings remain unchanged. Notes: are private. Line breaks and **bold** emphasis are preserved on the audience screen. TXT export preserves the editable question/answer content; JSON also preserves pictures and source information.
 
-Trivia uses a dark plum/teal palette, warm gold answer faces, and a centered intro with a large Outspoken Entertainment logo. Short questions and single answers use larger type; longer questions and multi-answer lists use more compact layouts. The presenter and editor retain dark mode. Family Feud retains its own appearance.
+Trivia uses a dark charcoal/ivory palette, warm ivory answer faces, and a centered intro with a large Outspoken Entertainment logo. Short questions and single answers use larger type; longer questions and multi-answer lists use more compact layouts. The presenter and editor retain dark mode. Family Feud retains its own appearance.
 
 **Presenter:** Next shows the round transition, question title, then the question and automatically starts its timer. Reveal answers individually after grading. Back/undo, jump, pause, reset and +30 seconds let you recover or revisit a question. Halfway standings appear before the second half of the rounds; final standings follow the last question. Reveal teams from bottom to top, up to ten on TV. Manual **Show scores on TV** replaces the current audience screen temporarily; **Close scores / return** restores the question and paused timer state. Open audience display uses the same named window as Family Feud. Double-click the TV view for fullscreen. Sound plays from the presenter; use Enable / test sound there.
 
@@ -202,4 +202,4 @@ All question inputs stay visible together, with compact headers such as R1Q4 and
 
 Enter durations in seconds (10–3600). At 60 and 30 seconds remaining, a brief audience notice and gentle tone announce the time. The last ten seconds have a large foreground countdown and quiet ticks. Pausing hides the countdown; adding time removes it immediately when more than ten seconds remain and displays **+30 seconds** beside the timer. Sound follows presenter mute/volume and never duplicates on the TV.
 
-**Show answer board** pauses the clock, hides the audience timer, moves the question upward, and brings in empty answer boxes. **Reveal next answer** flips each box to its gold answer face. You can also reveal directly without preparing the board. Single answers are large and centered, without numbering. Reduced-motion preferences disable movement. The private score-sheet answer card is unchanged.
+**Show answer board** pauses the clock, hides the audience timer, moves the question upward, and brings in empty answer boxes. **Reveal next answer** quickly flips each box to its soft ivory answer face. You can also reveal directly without preparing the board. Single answers are large and centered, without numbering. Reduced-motion preferences disable movement. The private score-sheet answer card is unchanged.

diff --git a/TEST-REPORT.md b/TEST-REPORT.md
@@ -140,3 +140,7 @@ The legacy-game browser regression also passes: import, timer, answer reveal, ma
 ### Trivia show polish and timer cues
 
 TypeScript, lint, production build and 54 unit tests pass. New timer/answer browser checks verify 60/30-second notices and one-shot warning sounds, final-ten-second ticks and overlay, +30 synchronization and countdown removal, hidden-answer board persistence, flip animation and hidden audience timer, and presenter-only audio. The existing timing check verifies seconds entry, custom duration persistence, reset, and 1366×768 presenter fit. Top-three colors and ascending score sounds are checked in the score-reveal browser test. Motion-reduced geometry checks inspect the complete supplied September 29 deck at 720p and 1080p.
+
+### Softer theme and faster answer flips
+
+Removed the intro tagline. Trivia uses warm charcoal and ivory instead of purple/blue/gold surfaces. Answer flips and their text reveal now take 240 ms instead of 500 ms, with reduced-motion behavior retained. TypeScript, lint, production build, presenter timing/layout and countdown/reveal browser checks pass. Intro and answer screenshots were visually inspected.
